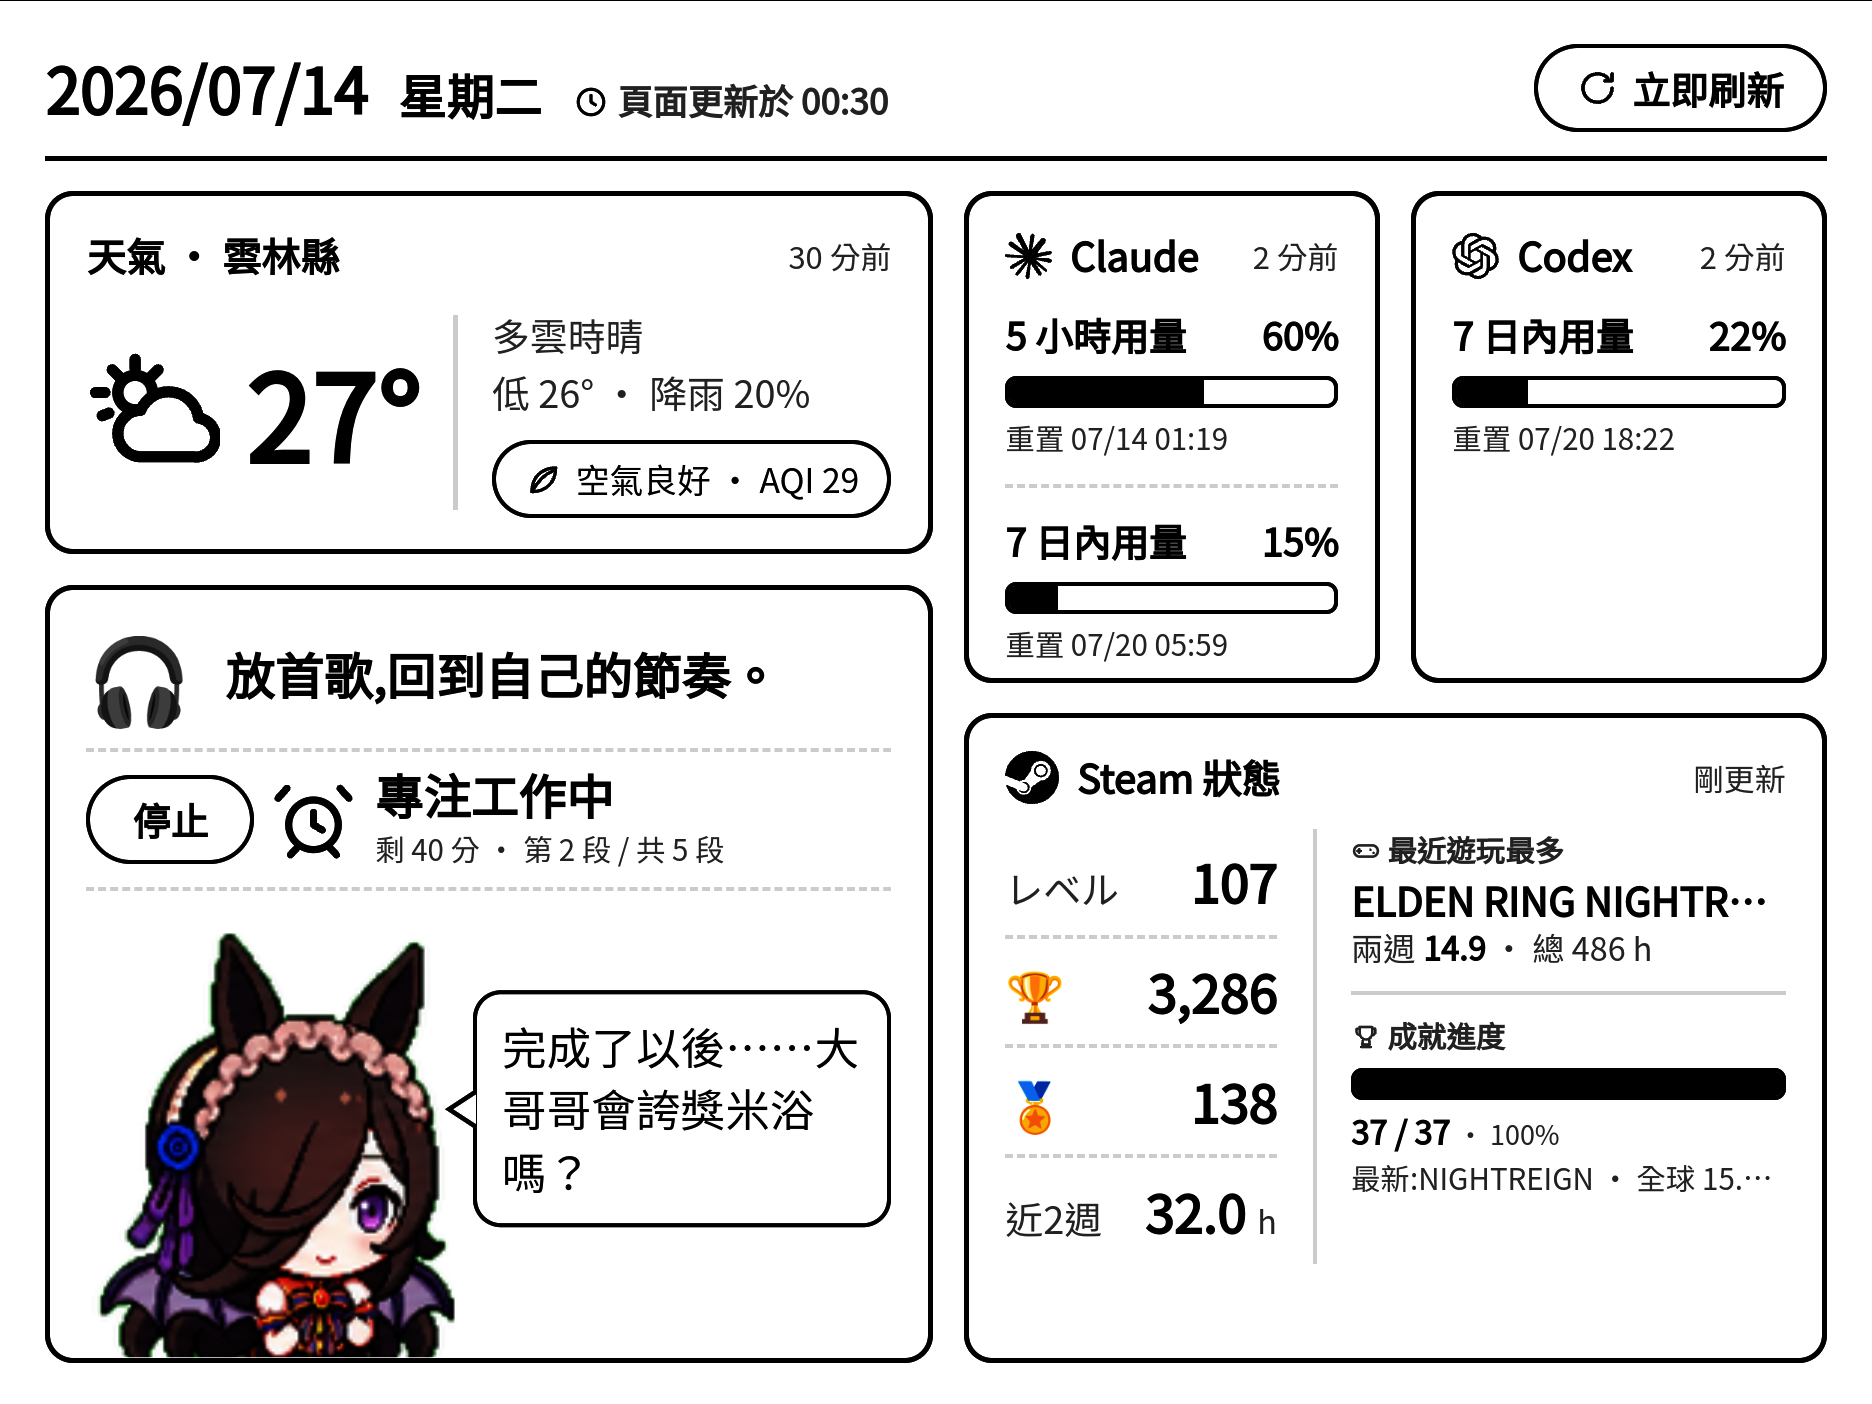
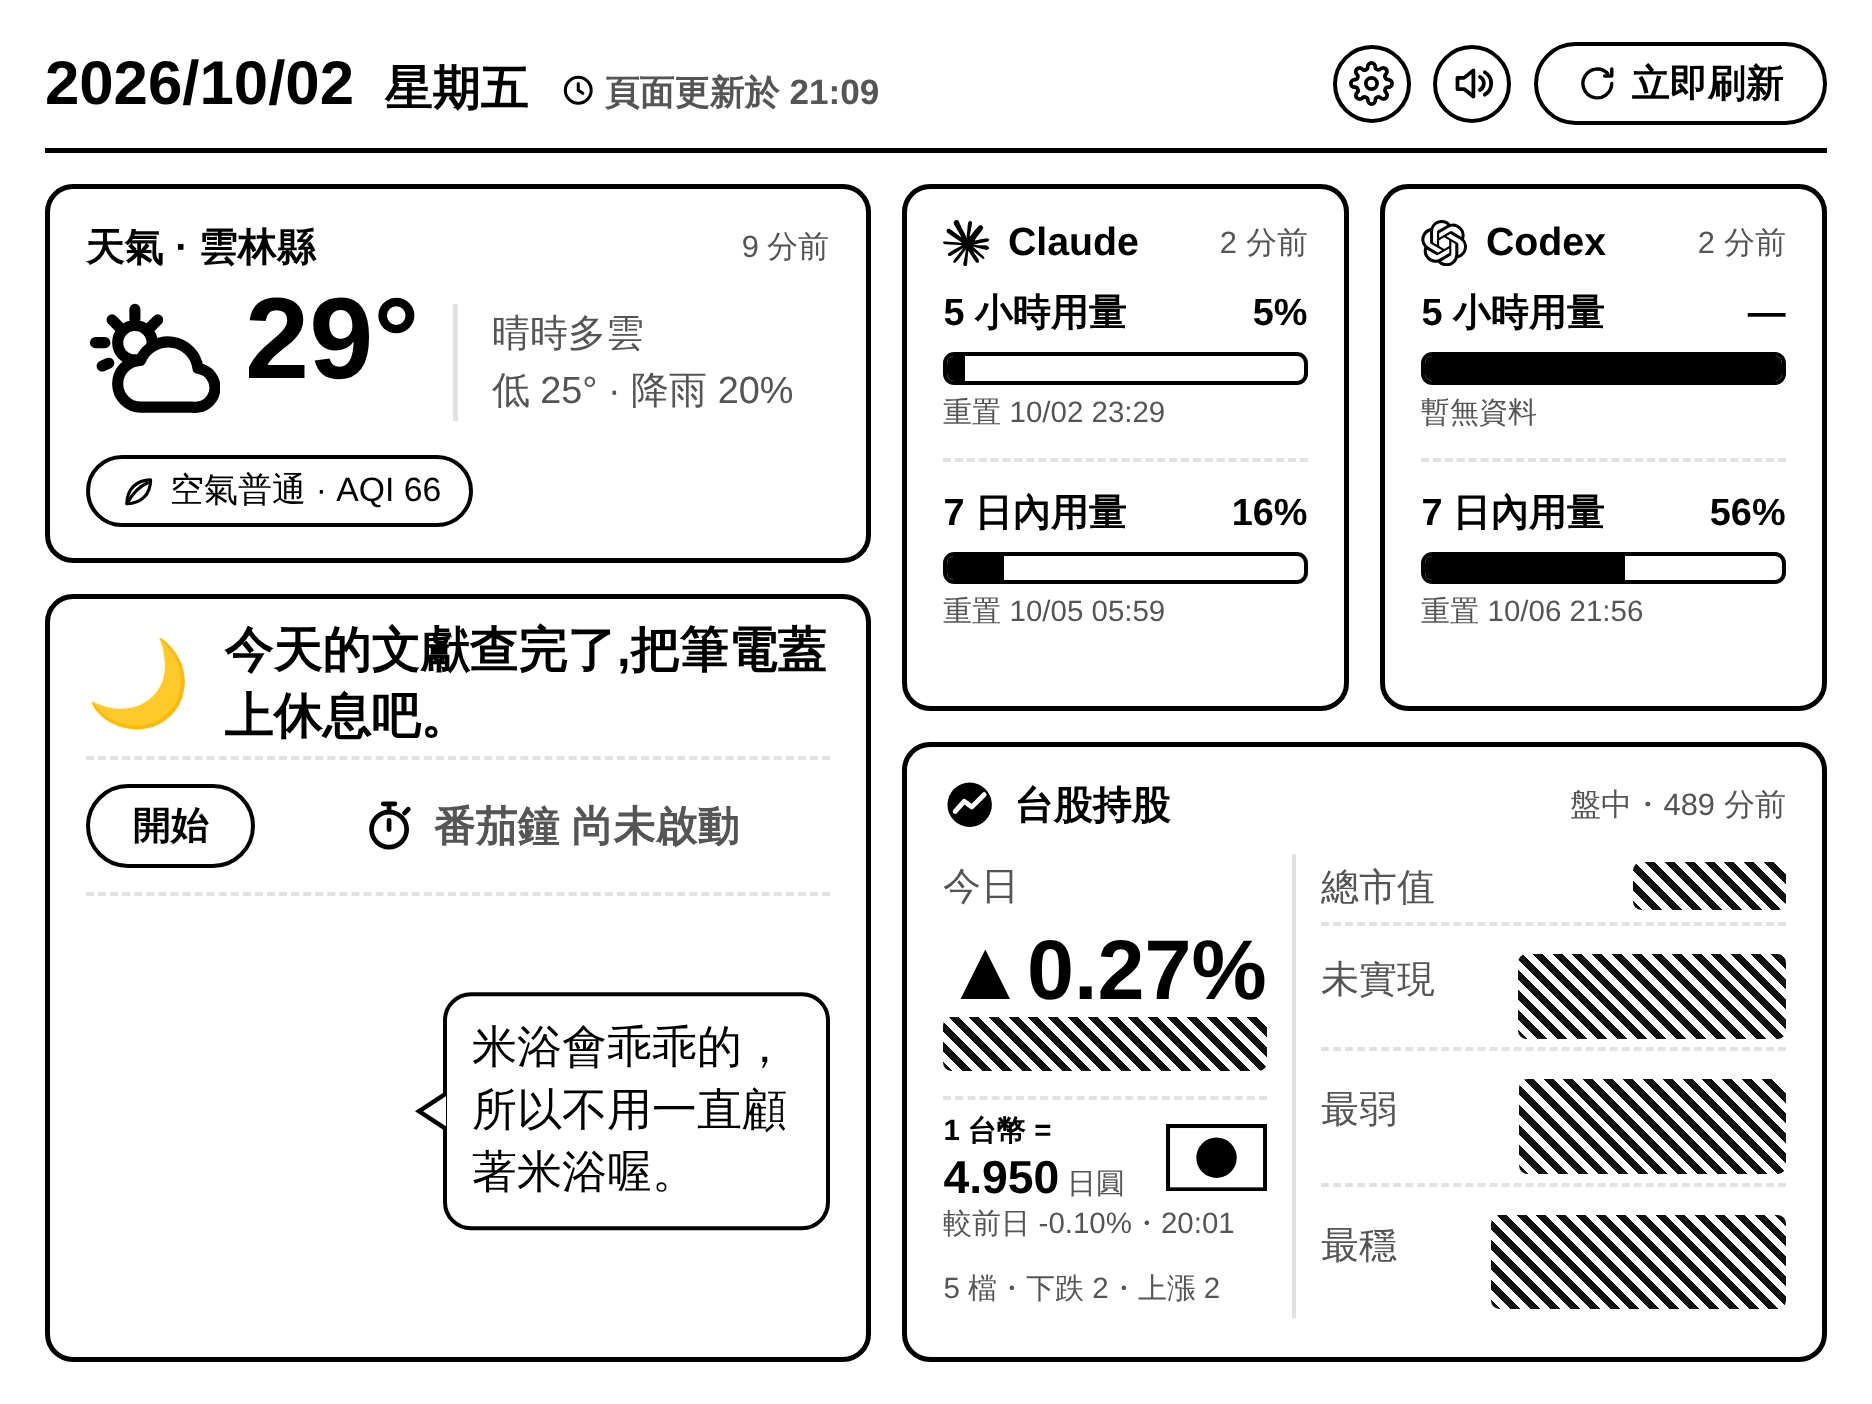
docs: cover holdings, funds and FX cards; refresh masked preview
- README / GUIDE / DEPLOY 補上台股持股、基金、匯率卡片與 HOLDINGS_TOKEN
- 基金排程實際是 08:30、21:30,修正文件與註解中的 21:00
- docs/preview.png 改為顯示股票卡,金額與持股名稱已打碼

Changed region(s): [[0.031, 0.0306, 0.9915, 0.9801], [0.8985, 0.3369, 0.9605, 0.4288]]

diff --git a/app/collectors/funds.py b/app/collectors/funds.py
@@ -12,7 +12,7 @@
   取「即期買入」(index 3,0 表示無)。預設 User-Agent 會被機器人驗證頁擋下,
   需帶瀏覽器 UA + Accept-Language 才拿到 CSV(使用者已同意)。檔名帶牌告時間。
 
-排程每天 08:30、21:00。境外淨值晚 1–2 個營業日屬正常。
+排程每天 08:30、21:30。境外淨值晚 1–2 個營業日屬正常。
 單檔失敗沿用上次淨值並記入 errors;匯率失敗沿用上次匯率。
 """
 from __future__ import annotations

diff --git a/tests/test_funds.py b/tests/test_funds.py
@@ -109,7 +109,7 @@ class ParseTests(unittest.TestCase):
 
 
 class ScheduleTests(unittest.TestCase):
-    def test_funds_run_at_0830_and_2100(self) -> None:
+    def test_funds_run_at_0830_and_2130(self) -> None:
         from app import scheduler
         from app.collectors.funds import FundsCollector
 

diff --git a/README.md b/README.md
@@ -13,6 +13,8 @@
 - 天氣與空氣品質：中央氣象署 CWA、環境部 MOENV。
 - AI 額度：Claude Code、Codex CLI 的本機登入資訊。
 - Steam 狀態：等級、成就、徽章、近期遊玩時數。
+- 台股持股與基金：TWSE 即時報價、基金資訊觀測站淨值；在 `/settings`、`/settings/funds` 設定，與 Steam 卡片輪播。
+- 匯率：臺灣銀行牌告，股票卡顯示 1 台幣兌日圓、基金卡顯示 1 美元兌台幣（附較前日漲跌）。
 - 作息區：時段提示、50 分鐘番茄鐘、依狀態切換的桌寵與對話氣泡。
 - 斷線降級：單一來源失敗時保留舊快取，不清空整個畫面。
 - 裝置控制：ADB 喚醒、開啟看板、刷新與真機截圖。
@@ -46,6 +48,7 @@ Copy-Item .env.example .env
 | 天氣 | `CWA_API_KEY`、`CWA_LOCATION` |
 | AQI | `MOENV_API_KEY`、`AQI_SITE`、`AQI_COUNTY` |
 | Steam | `STEAM_API_KEY`、`STEAM_ID` |
+| 台股持股、基金設定頁存檔 | `HOLDINGS_TOKEN`（自訂一串權杖；空 = 設定頁不能存檔） |
 | Claude | 自動讀取 `~/.claude/.credentials.json` |
 | Codex | 自動讀取 `~/.codex/auth.json` |
 
@@ -107,6 +110,9 @@ DEVICE_BROWSER_COMPONENT=de.ozerov.fully/.MainActivity
 | 天氣、AQI | 每小時整點 |
 | Steam | 每小時 `:00`、`:30` |
 | Claude、Codex、作息提示 | 每 10 分鐘 |
+| 台股持股 | 每小時整點（可設只在盤中） |
+| 基金淨值 | 每天 08:30、21:30 |
+| 匯率 | 每小時 `:10` |
 
 服務啟動時會並行收集一次。`GET /` 只渲染現有快取；`/refresh` 才會重新執行 collectors。
 
@@ -185,6 +191,6 @@ pet/sound/end/       # 喝水休息音效（可放多個，檔名不限）
 
 ## 現況
 
-已完成 live HTML、CWA、AQI、Claude、Codex、Steam、番茄鐘、桌寵、Fully Kiosk 與 ADB 真機流程。
+已完成 live HTML、CWA、AQI、Claude、Codex、Steam、台股持股、基金、匯率、番茄鐘、桌寵、Fully Kiosk 與 ADB 真機流程。
 
 待辦：脫離 USB、Fully 鎖定與開機自啟、e-ink full-refresh 廣播、跨機憑證同步、番茄鐘隨機音效（見上方規劃），以及預留的 Notion / 一般 DB connector。

diff --git a/DEPLOY.md b/DEPLOY.md
@@ -47,6 +47,7 @@ MOENV_API_KEY=你的環境部API金鑰
 AQI_SITE=斗六
 AQI_COUNTY=雲林縣
 DASHBOARD_URL=http://<主機IP>:8000/     # 用 hostname -I 查主機的區網 IP
+HOLDINGS_TOKEN=自訂一串權杖              # 選填;持股/基金設定頁存檔用
 ```
 
 ADB 相關先留預設(`REFRESH_VIA_ADB=false`),等 C 段驗證通再開。
